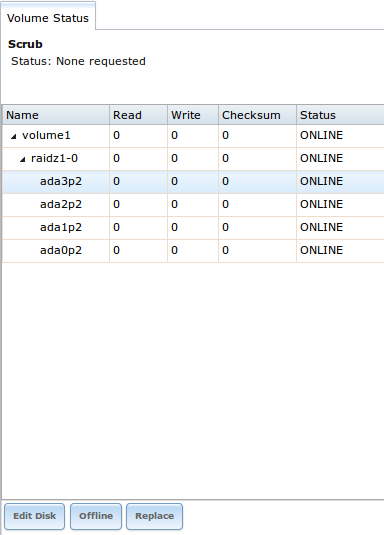
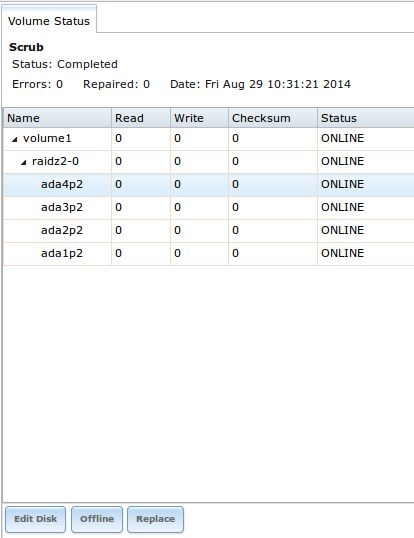
Add info about ZFS scrub status in Volume Status. Update screenshot with an example.
Former-commit-id: 13e4b0b2a4104881f014e0046352abc2f18909aa

Changed region(s): [[0.0, 0.0, 1.0, 1.0]]

diff --git a/docs/userguide/freenas_intro.rst b/docs/userguide/freenas_intro.rst
@@ -230,6 +230,8 @@ The following fields have been added or deleted:
 * An "Upgrade" button has been added to the available icons for a highlighted volume in :menuselection:`Storage --> Volumes --> View Volumes`. This means that
   you no longer need to upgrade a ZFS pool from the command line.
   
+* The "Volume Status" screen now shows the status of the latest ZFS scrub, the number of errors, number of repaired blocks, and the date of the last scrub.
+  
 * The "Enable High Speed Ciphers" checkbox has been replaced by the "Encryption Cipher" drop-down menu in 
   :menuselection:`Storage --> Replication Tasks -> Add Replication Tasks`. This allows you to temporarily disable encryption for the initial replication which
   can significantly reduce the time needed for the initial replication.
